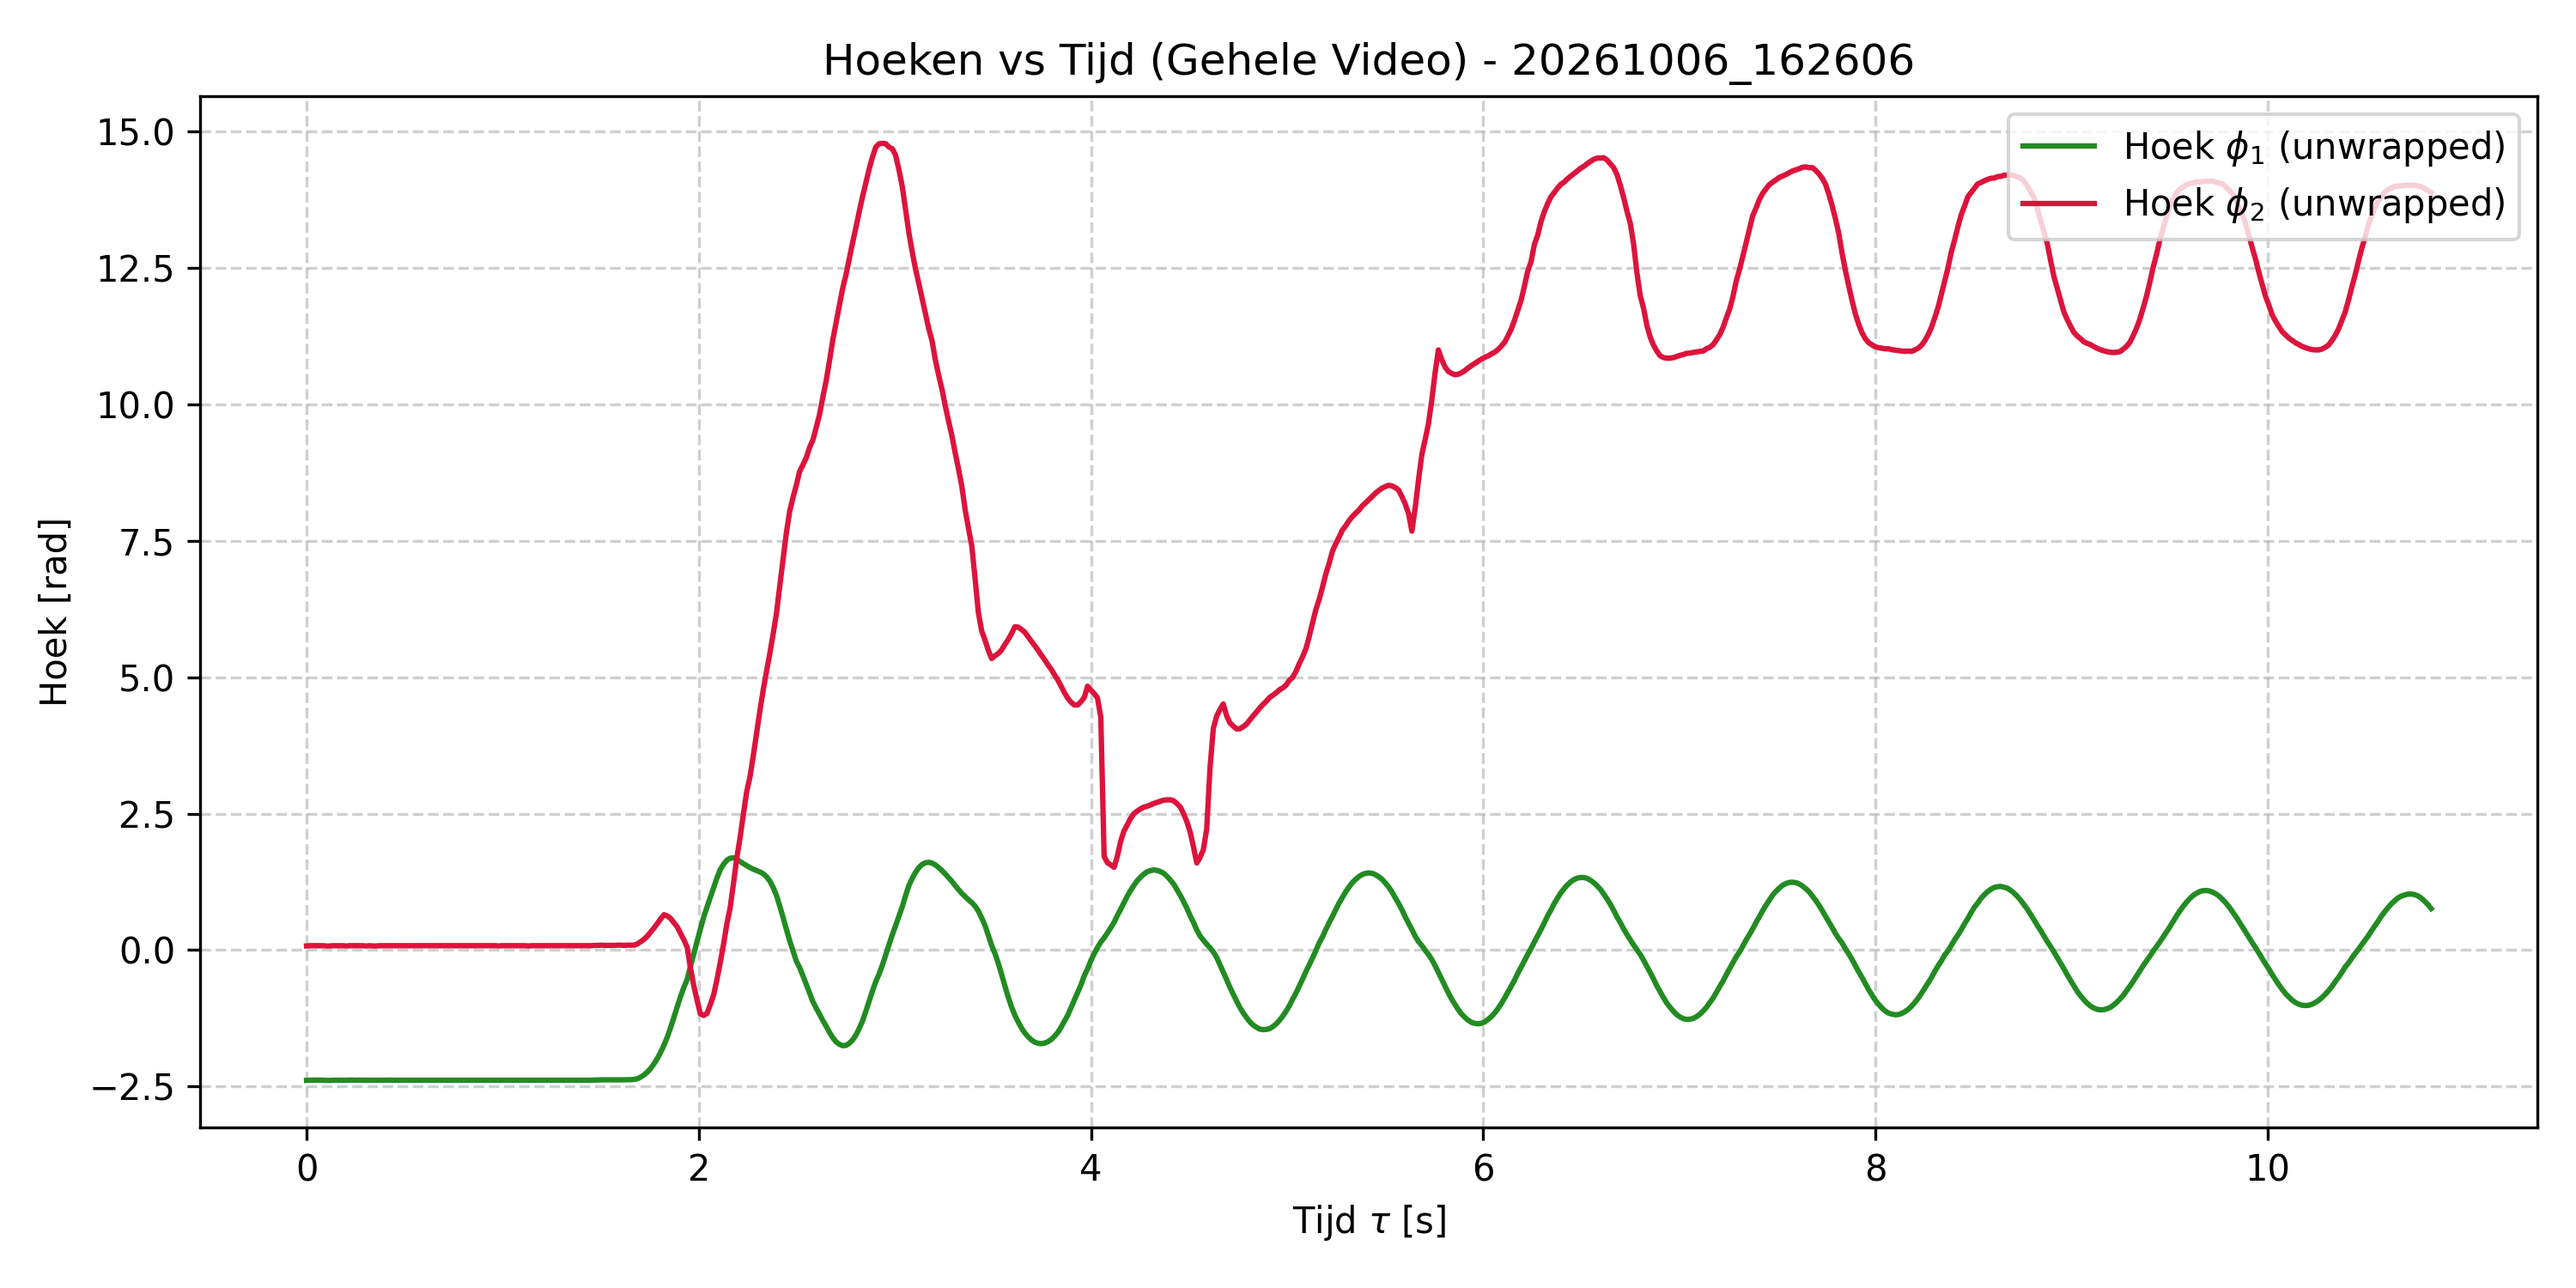
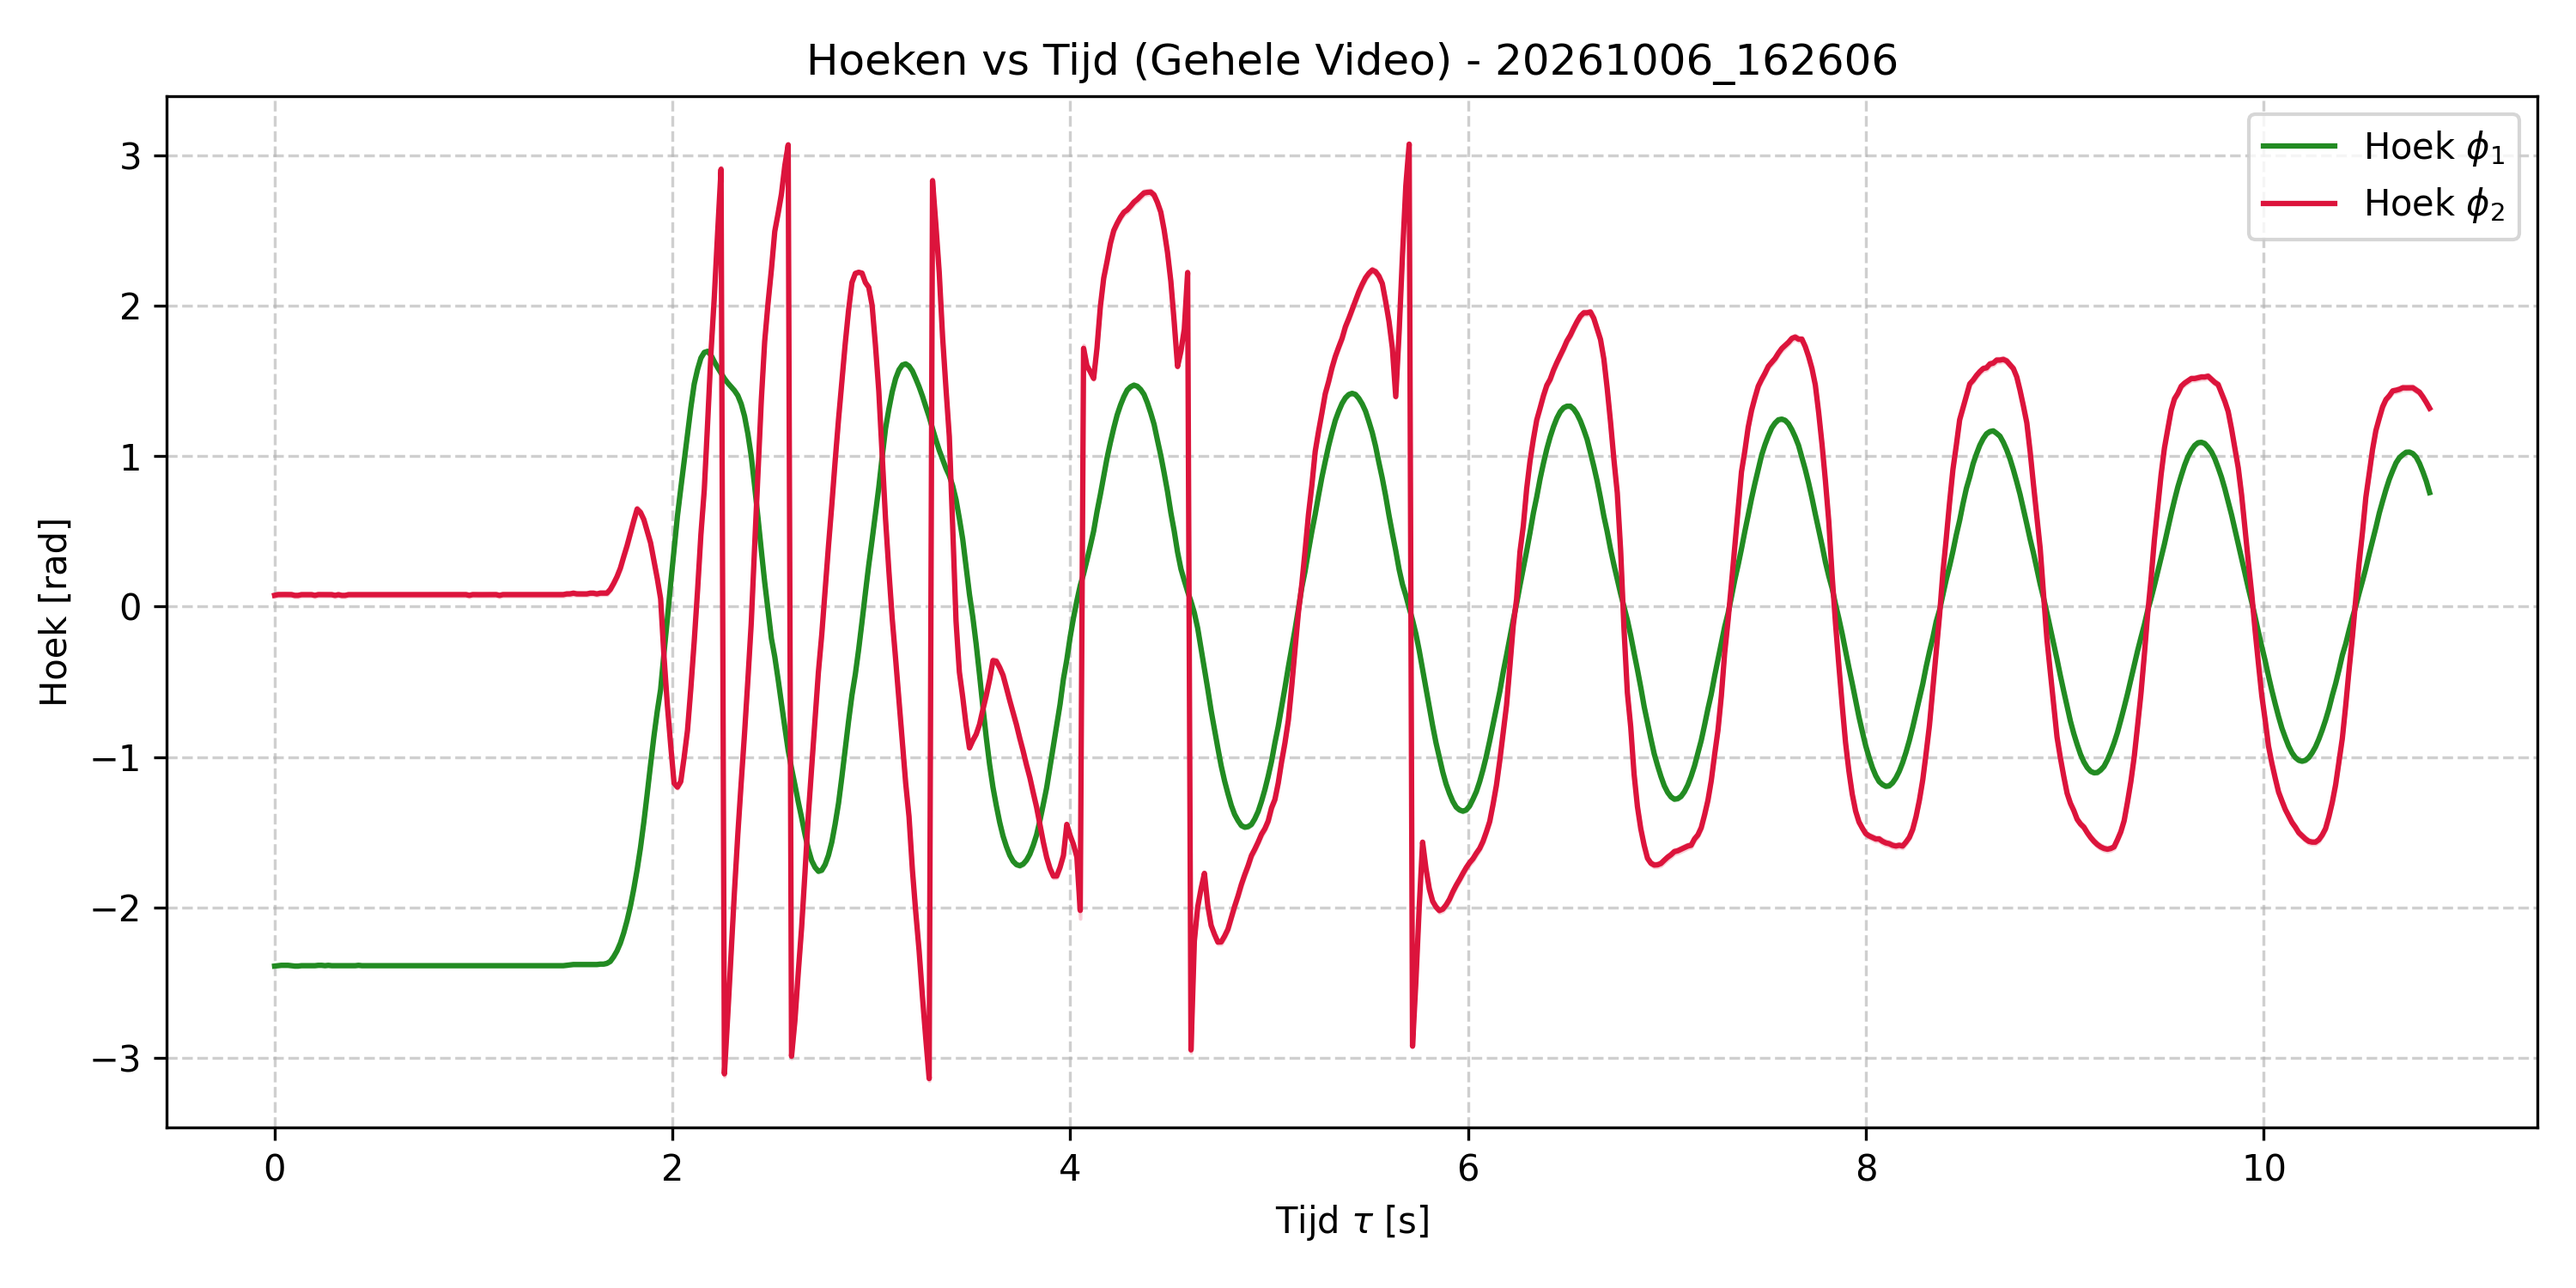
comittting

diff --git a/Physics.py b/Physics.py
@@ -114,9 +114,9 @@ def analyze_and_plot_with_uncert(
     ax.plot(df["tau"], df["phi2_wrapped"], label=r'Hoek $\phi_2$', color='crimson', linewidth=1.5)
     ax.fill_between(df["tau"], df["phi2_wrapped"] - df["sigma_phi2"], df["phi2_wrapped"] + df["sigma_phi2"], color='crimson', alpha=0.2)
     
-    ax.set_xlabel('Tijd $\\tau$ [s]')
-    ax.set_ylabel('Hoek [rad]')
-    ax.set_title(f'Hoeken vs Tijd (Gehele Video) - {video_name}')
+    ax.set_xlabel('Time $\\tau$ [s]')
+    ax.set_ylabel('Angle [rad]', rotation=0, labelpad=20)
+    ax.set_title(f'Double pendulum angles vs. time - {video_name}')
     ax.grid(True, linestyle='--', alpha=0.6)
     ax.legend(loc='upper right')
     plt.tight_layout()
